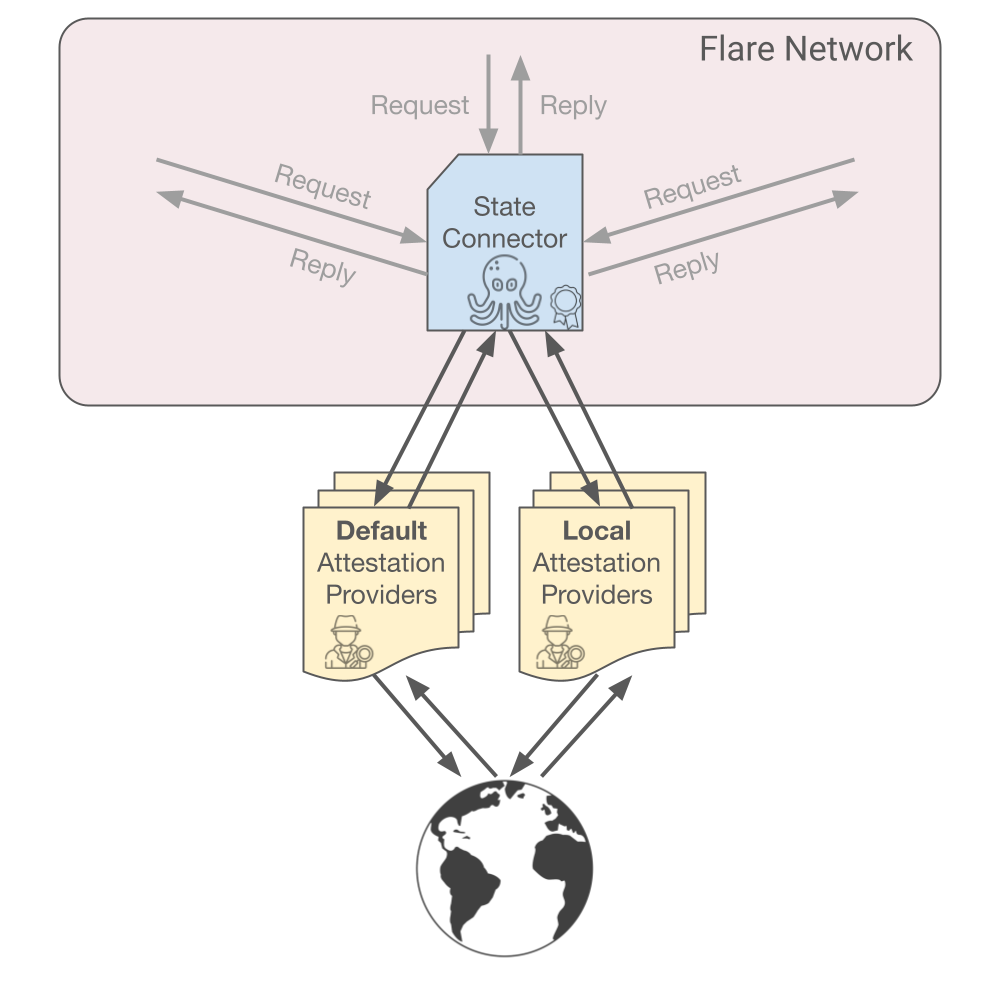
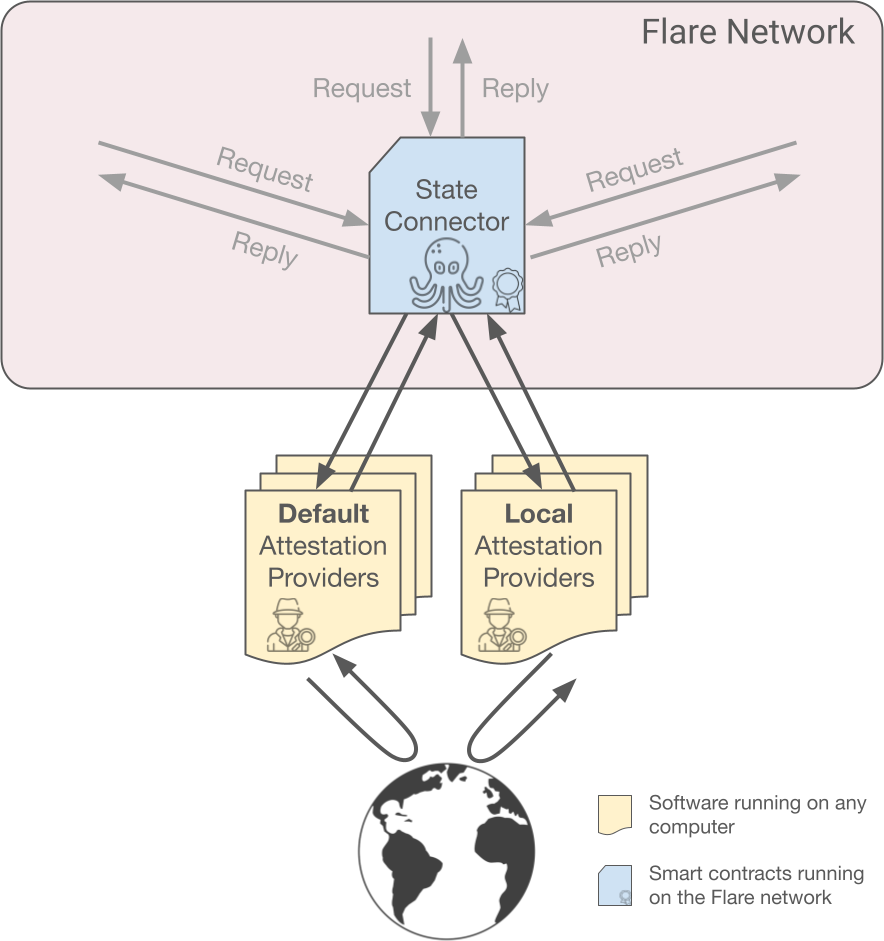
Update State Connector diagrams (STAT-32)
Clarity has been improved according to feedback.

Changed region(s): [[0.0, 0.0, 1.0, 0.9862], [0.6719, 0.8321, 0.9774, 0.9862], [0.4581, 0.9862, 0.5498, 1.0]]

diff --git a/docs/tech/state-connector.md b/docs/tech/state-connector.md
@@ -92,7 +92,7 @@ To prevent attestation providers from peeking at each other's answers, these are
 If **at least 50%** of the attestation providers submitted the same answer, it is made public.
 Otherwise, **no consensus is achieved**: requests remain **unanswered** and must be issued again.
 
-**The answers are stored in the State Connector smart contract for a week**, where anybody can read them.
+**The answers are stored in the State Connector smart contract for a week**, where anybody can read them, including the original requester.
 
 ??? example "Retrieving your request's answer (for App developers)"
 
